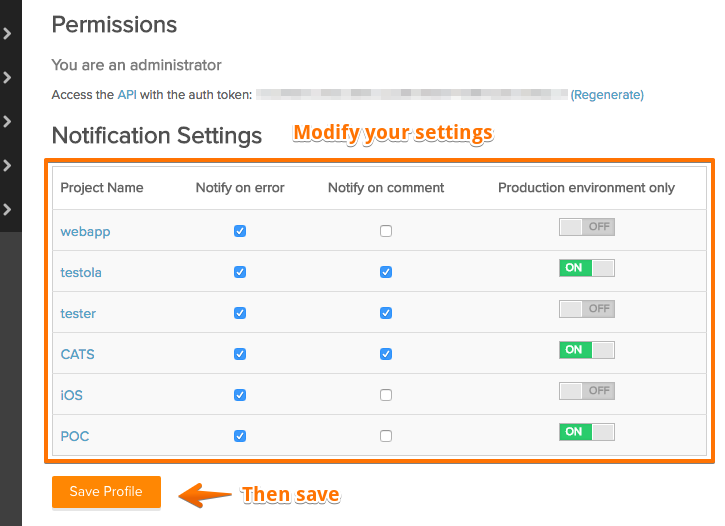
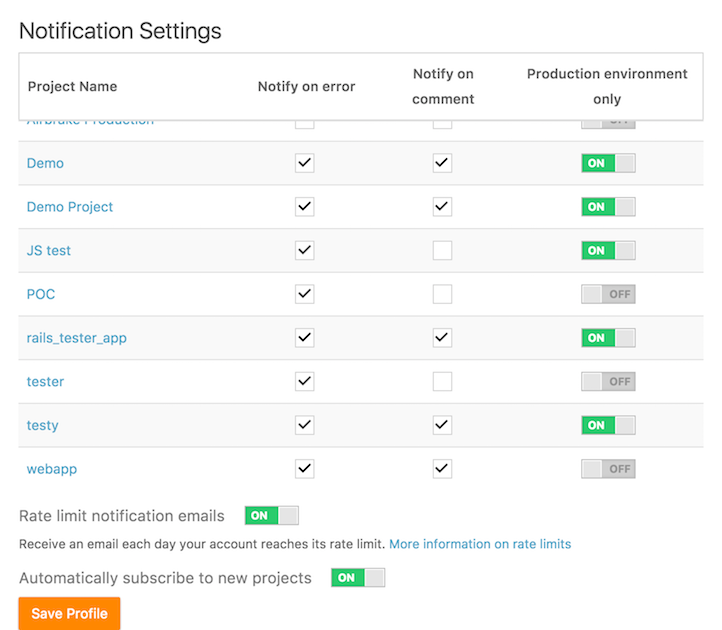
Notification doc update (#101)
* Delete notification_settings.png

* Update notification_settings.png

* Updated notifications doc

Added new features to doc.

diff --git a/jekyll/_docs/airbrake-faq/configuring-notifications.md b/jekyll/_docs/airbrake-faq/configuring-notifications.md
@@ -19,6 +19,13 @@ You will be notified when another team member comments on an exception
 Only receive notifications from errors that occur in the `production`
 environment.
 
+### **Rate limit notification emails**
+Receive an email each day your account reaches its rate limit.
+
+### **Automatically subscribe to new projects**
+When a new project is added you will be subscribed to that project
+automatically. **This option is only available to admins on the account**
+
 ### Notes
 
 - These settings are user specific.
@@ -31,6 +38,8 @@ environment.
 ## Modify your notification settings
 
 ### Open the **upper left dropdown** near your user and click **settings**
+Or click [https://airbrake.io/users/edit](https://airbrake.io/users/edit) to be
+taken to your Profile & Notifications settings.
 
 ![airbrake dropdown settings](/docs/assets/img/docs/airbrake/dropdown_settings.png)
 
